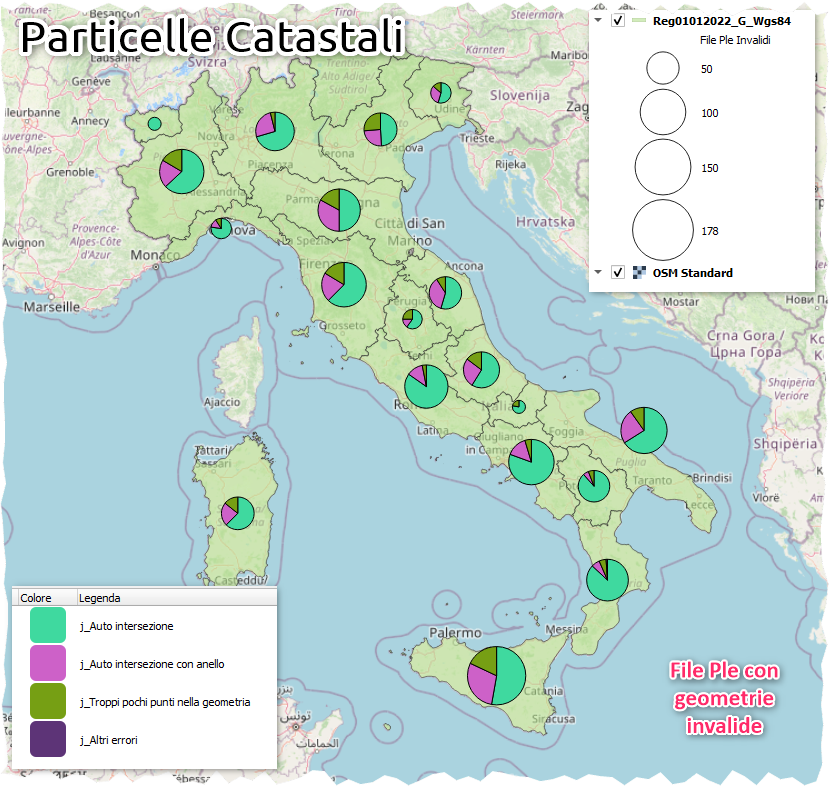
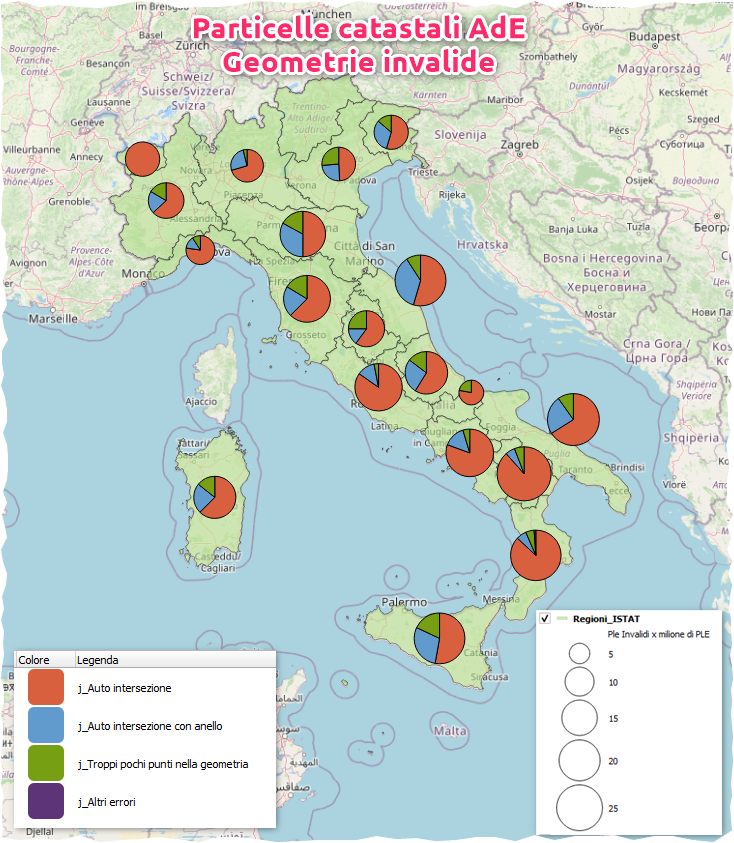
Aggiungi riepilogo delle regioni e script per generare report da file di input

diff --git a/README.md b/README.md
@@ -10,28 +10,27 @@ L'obiettivo di questo repository è quello di raccogliere le problematiche risco
 
 ## Tabella Errori di Validazione per Regione
 
-| Regione               | Auto intersezione | Auto intersezione con anello | Troppi pochi punti nella geometria | Altri errori |   Totale |
-| --------------------- | ----------------: | ---------------------------: | ---------------------------------: | -----------: | -------: |
-| Sicilia               |                94 |                           52 |                                 32 |            0 |      178 |
-| Puglia                |                74 |                           27 |                                 11 |            0 |      112 |
-| Campania              |                87 |                           16 |                                  5 |            0 |      108 |
-| Toscana               |                65 |                           22 |                                 17 |            0 |      104 |
-| Piemonte              |                65 |                           21 |                                 17 |            0 |      103 |
-| Lazio                 |                83 |                           12 |                                  3 |            0 |       98 |
-| Emilia-Romagna        |                47 |                           31 |                                 16 |            0 |       94 |
-| Calabria              |                80 |                            6 |                                  5 |            1 |       92 |
-| Lombardia             |                55 |                           20 |                                  3 |            0 |       78 |
-| Abruzzo               |                40 |                           18 |                                 10 |            0 |       68 |
-| Veneto                |                28 |                           14 |                                 15 |            0 |       57 |
-| Sardegna              |                35 |                           13 |                                  8 |            0 |       56 |
-| Marche                |                30 |                           20 |                                  5 |            0 |       55 |
-| Basilicata            |                46 |                            3 |                                  3 |            0 |       52 |
-| Friuli-Venezia Giulia |                12 |                            7 |                                  3 |            0 |       22 |
-| Liguria               |                17 |                            3 |                                  2 |            0 |       22 |
-| Umbria                |                12 |                            3 |                                  5 |            0 |       20 |
-| Molise                |                 7 |                            0 |                                  2 |            0 |        9 |
-| Valle d'Aosta         |                 9 |                            0 |                                  0 |            0 |        9 |
-| **Totale**            |           **886** |                      **288** |                            **162** |        **1** | **1337** |
+| Regione               | Auto intersezione | Auto intersezione con anello | Troppi pochi punti nella geometria | Altri errori | Totale Errori | Totale Feature |
+| --------------------- | ----------------: | ---------------------------: | ---------------------------------: | -----------: | ------------: | -------------: |
+| Sicilia               |                94 |                           52 |                                 32 |            0 |           178 |        8245350 |
+| Puglia                |                74 |                           27 |                                 11 |            0 |           112 |        4967384 |
+| Campania              |                87 |                           16 |                                  5 |            0 |           108 |        5699625 |
+| Toscana               |                65 |                           22 |                                 17 |            0 |           104 |        5656713 |
+| Piemonte              |                65 |                           21 |                                 17 |            0 |           103 |        9684097 |
+| Lazio                 |                83 |                           12 |                                  3 |            0 |            98 |        5220631 |
+| Emilia-Romagna        |                47 |                           31 |                                 16 |            0 |            94 |        5418463 |
+| Calabria              |                80 |                            6 |                                  5 |            1 |            92 |        4265976 |
+| Lombardia             |                55 |                           20 |                                  3 |            0 |            78 |        8755919 |
+| Abruzzo               |                40 |                           18 |                                 10 |            0 |            68 |        4499754 |
+| Veneto                |                28 |                           14 |                                 15 |            0 |            57 |        6016158 |
+| Sardegna              |                35 |                           13 |                                  8 |            0 |            56 |        3771226 |
+| Marche                |                30 |                           20 |                                  5 |            0 |            55 |        2539760 |
+| Basilicata            |                46 |                            3 |                                  3 |            0 |            52 |        2125499 |
+| Friuli-Venezia Giulia |                12 |                            7 |                                  3 |            0 |            22 |        2250598 |
+| Liguria               |                17 |                            3 |                                  2 |            0 |            22 |        3143566 |
+| Umbria                |                12 |                            3 |                                  5 |            0 |            20 |        1833292 |
+| Molise                |                 7 |                            0 |                                  2 |            0 |             9 |        1749587 |
+| Valle d'Aosta         |                 9 |                            0 |                                  0 |            0 |             9 |         909967 |
 
 ## Descrizione
 
